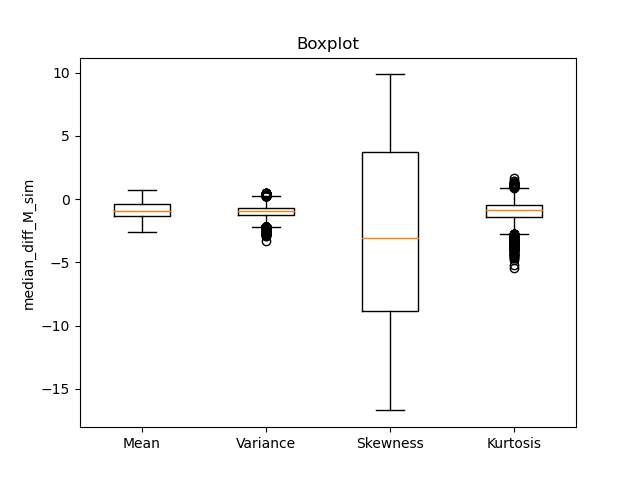
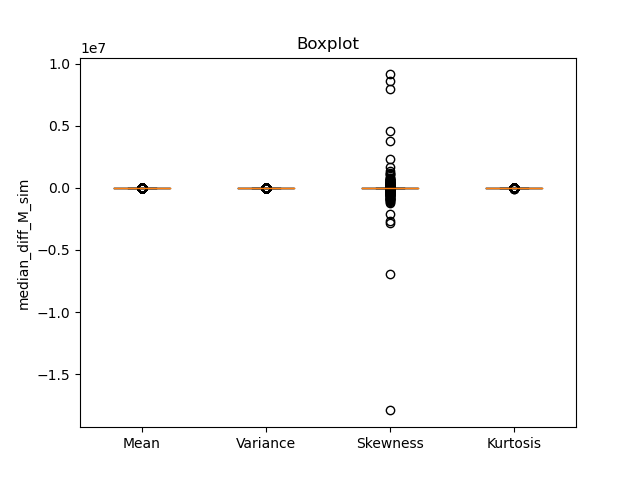
update

diff --git a/mean_var_y_sample_no_dummy.py b/mean_var_y_sample_no_dummy.py
@@ -26,9 +26,9 @@ def save_object(obj, filename):
 #=======================================================================
 def create_samples():
     # Define the means and standard deviations for the two Gaussian distributions
-    mean1_range = np.arange(0, 10001, 200)
-    mean2_range = np.arange(0, 10001, 200)
-    std_dev_range = np.arange(10, 1001, 50)
+    mean1_range = np.arange(0, 1001, 20)
+    mean2_range = np.arange(0, 1001, 20)
+    std_dev_range = np.arange(10, 101, 5)
     run = mean1_range.shape[0]*mean2_range.shape[0]*std_dev_range.shape[0]
     sample_size = 500
     count = 0
@@ -125,7 +125,7 @@ def infer(training,neurons = 100,layers = 3,dropout_rate = 0.2,epochs = 5000):
 #model.add(Dense(output_shape[0],kernel_initializer='uniform'))
 
     opt = tf.keras.optimizers.Adam(learning_rate=0.001,beta_1=0.9,beta_2=0.999,epsilon=1e-09,)
-    model.compile(loss='mean_squared_error', optimizer=opt, metrics=['accuracy'])
+    model.compile(loss=aleatoric_loss, optimizer=opt, metrics=['accuracy'])
     es = EarlyStopping(monitor='val_loss', mode='min', verbose=1, patience=50)
     print(model.summary())
     history = model.fit(X_train, y_train, batch_size=int(len(X_train)/3), epochs = epochs, shuffle=True, 
@@ -161,7 +161,7 @@ def infer(training,neurons = 100,layers = 3,dropout_rate = 0.2,epochs = 5000):
 
     print(r2_score(y_val, y_pred[:,:4]))
 
-    ext = "range105_method1_dummy_mse"
+    ext = "range103_method1_dummy_mse"
     model.save("emu_model_"+ext+".h5")
     save_object(sc, "emu_sc_"+ext+".pkl")
     save_object(scy, "emu_scy_"+ext+".pkl")
@@ -317,7 +317,7 @@ def testing():
     print(r2_score(y_test, y_pred_test[:,:4]))
     plt.show()
 
-ext = "range105_method1_nodummy_aloss"
+ext = "range103_method1_dummy_aloss"
 testing()
 
 

diff --git a/plot_code.py b/plot_code.py
@@ -22,7 +22,7 @@ import pickle
 #=======================================================================
 #plot code new
 
-ext = "range103_method1_dummy_aloss"
+ext = "range105_method1_nodummy_aloss"
 model = tensorflow.keras.models.load_model("emu_model_"+ext+".h5", compile=False)
 
 with open("emu_sc_"+ext+".pkl", 'rb') as run:
@@ -34,9 +34,9 @@ with open("emu_scy_"+ext+".pkl", 'rb') as run:
 def parameter_set():
     # Define the sets of parameters [a, b, c]
     # Define the means and standard deviations for the two Gaussian distributions
-    theta_1 = np.arange(0, 1001, 20)
-    theta_2 = np.arange(0, 1001, 20)
-    std_dev = np.arange(10, 101, 5)
+    theta_1 = np.arange(0, 10001, 200)
+    theta_2 = np.arange(0, 10001, 200)
+    std_dev = np.arange(10, 1001, 50)
     run = theta_1.shape[0]*theta_2.shape[0]*std_dev.shape[0]
     #sample_size = 500
     
@@ -97,9 +97,9 @@ sim = generate_simulation_distribution_full(para_sim,100)
 
 #=======================================================================
 # plot mean_diff_std for 4 moments
-theta_1 = np.arange(0, 1001, 20)
-theta_2 = np.arange(0, 1001, 20)
-std_dev = np.arange(10, 101, 5)
+theta_1 = np.arange(0, 10001, 200)
+theta_2 = np.arange(0, 10001, 200)
+std_dev = np.arange(10, 1001, 50)
 run = theta_1.shape[0]*theta_2.shape[0]*std_dev.shape[0]
 
 mean_diff_std_arr_full = np.empty((0, run), dtype=np.float64)
